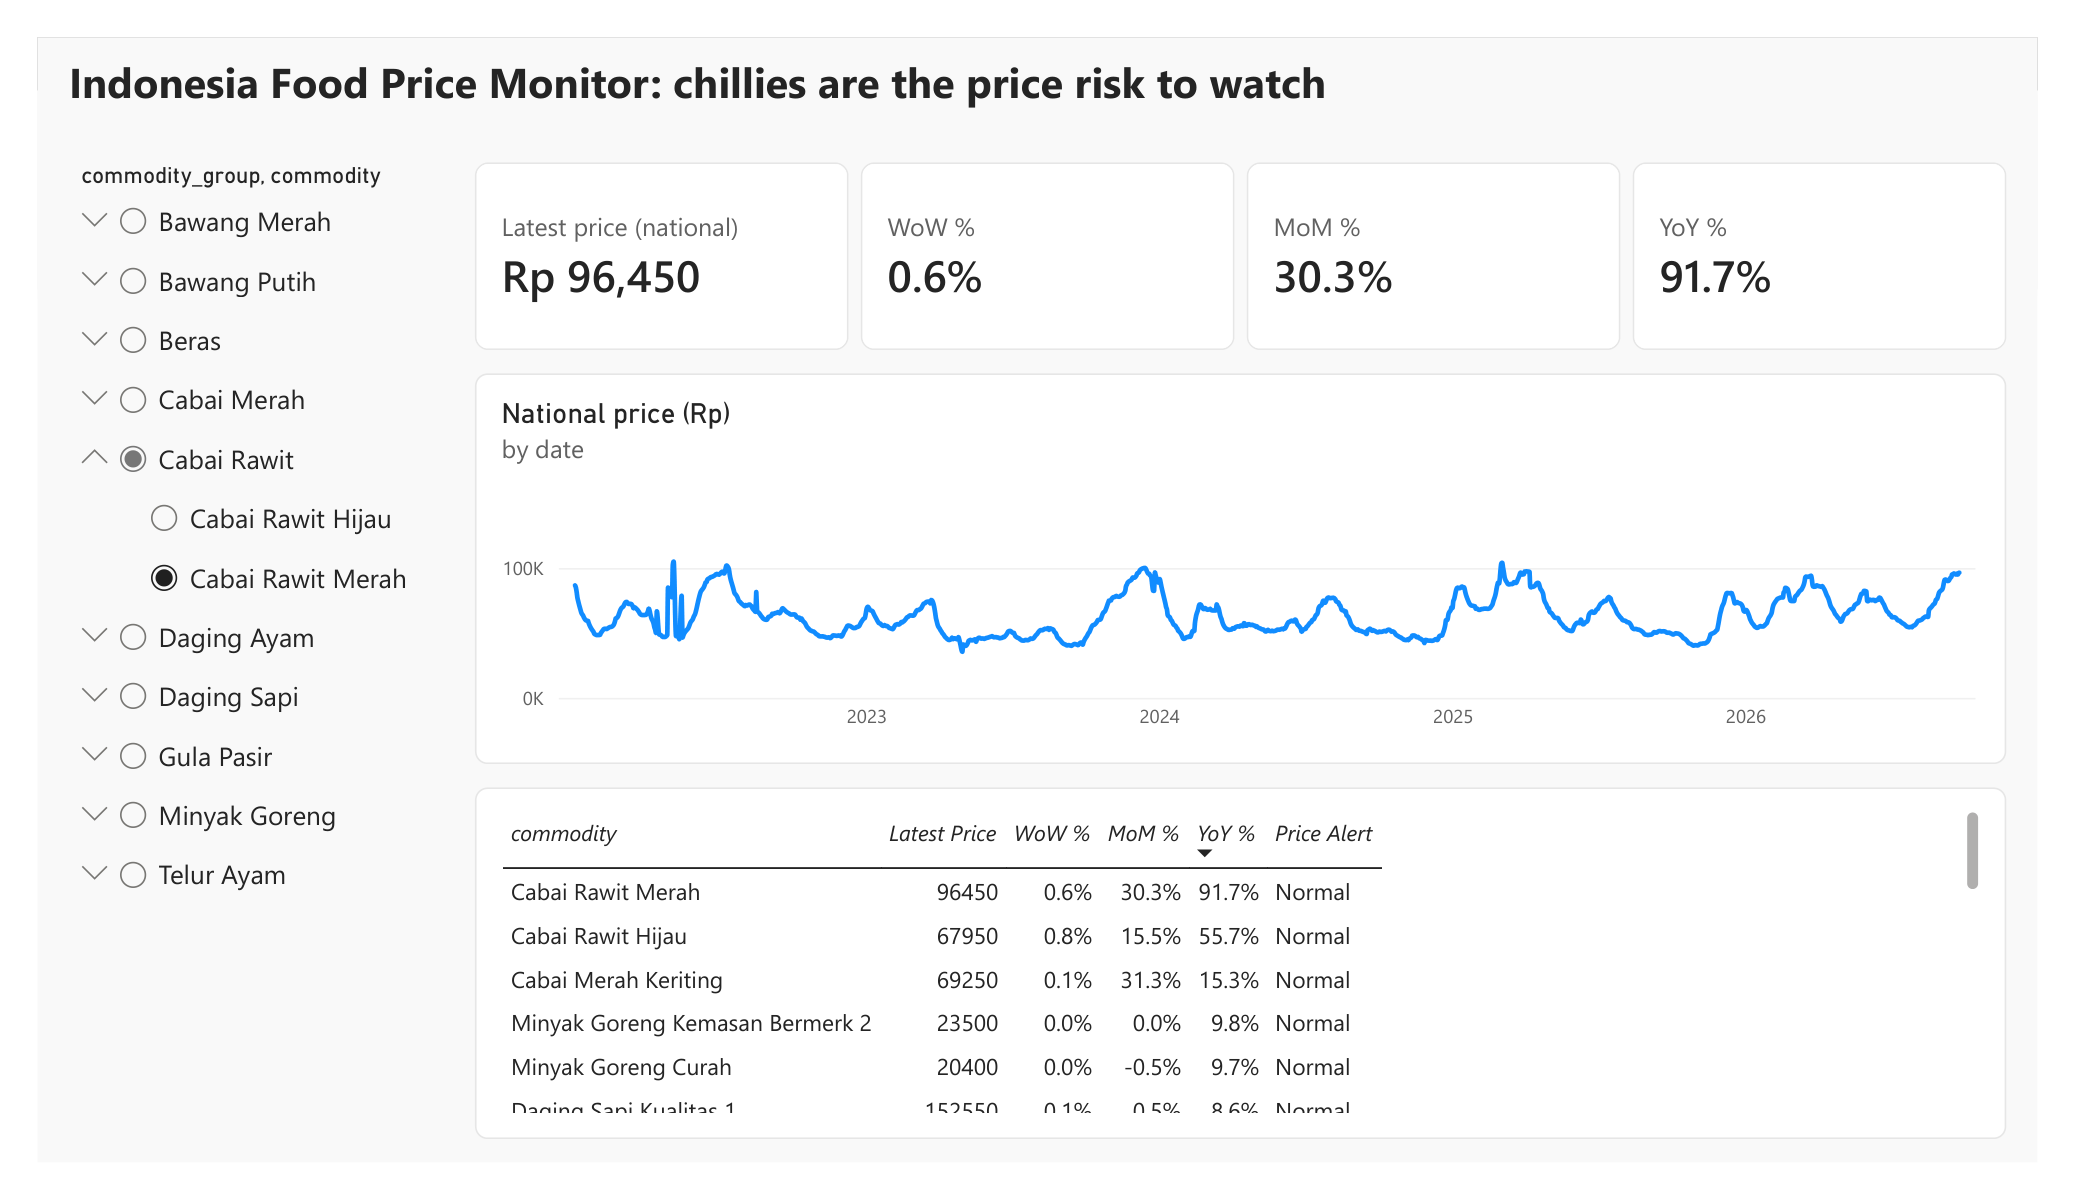
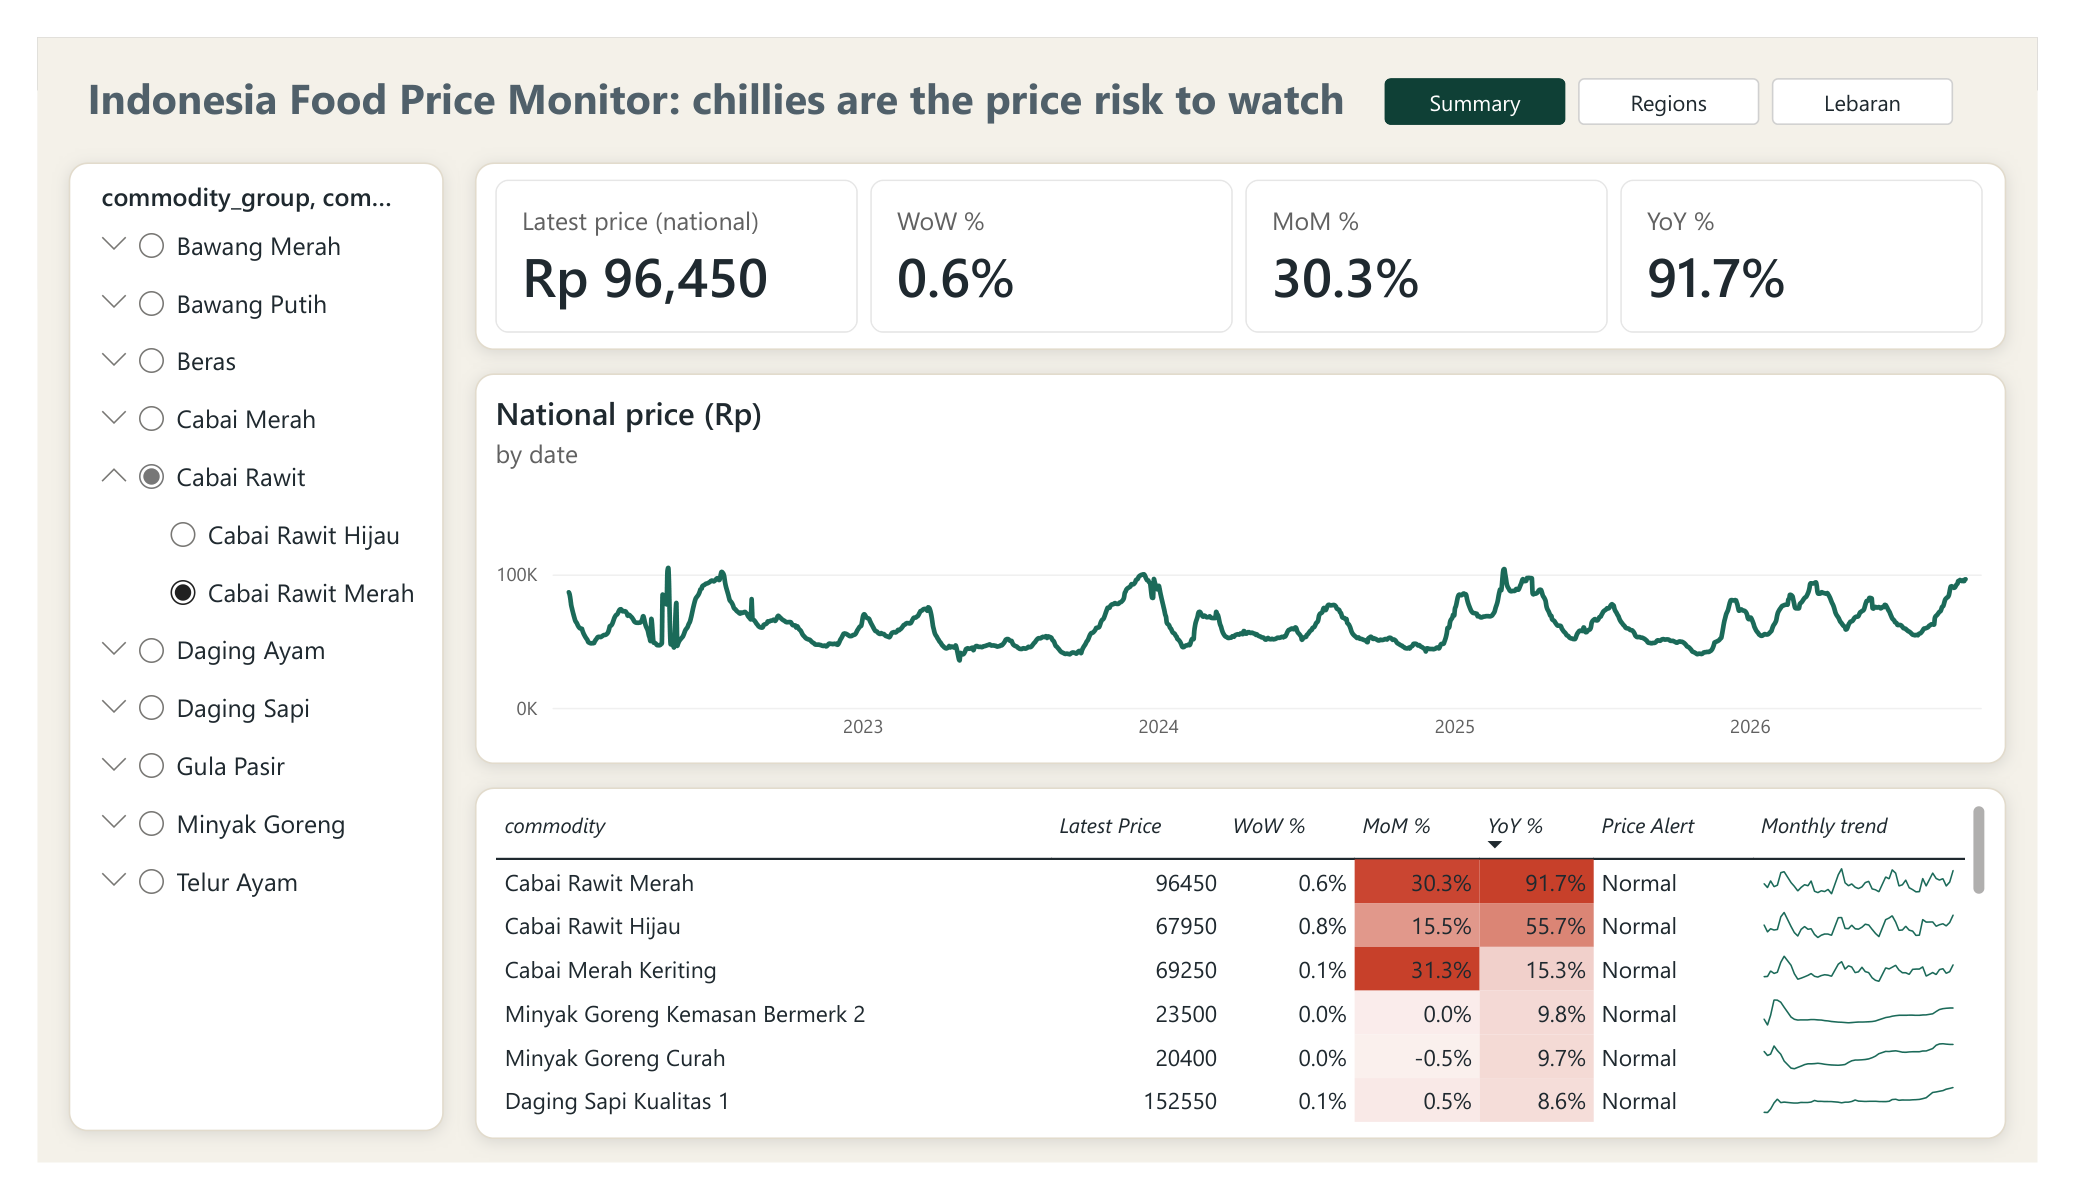
Polish the Power BI report: custom theme, page navigation, colour-coded changes, sparklines

diff --git a/README.md b/README.md
@@ -1,4 +1,4 @@
-# Indonesia Food Price Monitor
+# Indonesia Food Price Monitor
 
 An automated pipeline and Power BI dashboard that tracks the daily prices of 21 staple foods across Indonesia's 34 provinces. The data comes from Bank Indonesia's PIHPS Nasional.
 
@@ -57,7 +57,8 @@ bi.go.id PIHPS JSON  ->  scrape_pihps.py  ->  prices_daily.csv (864k rows)
 **Power BI report** (3 pages, shown in the screenshots)
 - The data is loaded as a star schema.
 - The DAX measures are in `powerbi/measures.dax`. They include Latest Price, WoW / MoM / YoY %, Gap vs National % and Lebaran Change %.
-- The Executive Summary and Regional Disparity pages share a synced commodity slicer.
+- All three pages share a synced commodity slicer and page-navigation buttons.
+- A custom theme (`powerbi/food_price_theme.json`), colour-coded price changes and monthly sparklines highlight where prices are rising.
 
 **`.github/workflows/daily-refresh.yml`** re-runs the pipeline every weekday afternoon. Past quarters are cached, so each run downloads only the current quarter.
 
@@ -74,7 +75,7 @@ Then build the Power BI report on `model/*.csv` with a Python data source and th
 
 ## Data and limitations
 
-- **Source:** PIHPS Nasional, Bank Indonesia (https://www.bi.go.id/hargapangan). Data © PIHPS Nasional.
+- **Source:** PIHPS Nasional, Bank Indonesia (https://www.bi.go.id/hargapangan). Data Â© PIHPS Nasional.
   - This repository publishes only derived aggregates (`public/`). The raw daily responses are not redistributed.
   - The scraper follows bi.go.id/robots.txt.
 - **Prices:**
